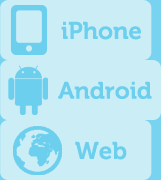
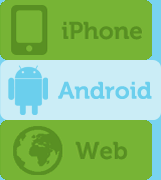
update

diff --git a/public/stylesheets/screen.css b/public/stylesheets/screen.css
@@ -256,38 +256,57 @@ section#app-intro .content ul.icons li {
   background: url(../images/icons.png) 0 0 no-repeat;
 }
 /* line 152, ../../scss/screen.scss */
+section#app-intro .content ul.icons li a, section#app-intro .content ul.icons li p {
+  display: block;
+  width: 152px;
+  height: 60px;
+  padding: 45px 0 5px 75px;
+  font-size: 12px;
+  color: white;
+  text-decoration: none;
+}
+/* line 161, ../../scss/screen.scss */
 section#app-intro .content ul.icons li.android {
   background-position: 0 -60px;
   width: 160px;
 }
-/* line 153, ../../scss/screen.scss */
+/* line 163, ../../scss/screen.scss */
+section#app-intro .content ul.icons li.android p {
+  padding: 37px 0 5px 75px;
+  color: green;
+}
+/* line 168, ../../scss/screen.scss */
 section#app-intro .content ul.icons li.browser {
   background-position: 0 -120px;
 }
-/* line 156, ../../scss/screen.scss */
+/* line 170, ../../scss/screen.scss */
+section#app-intro .content ul.icons li.browser a {
+  padding-left: 64px;
+}
+/* line 175, ../../scss/screen.scss */
 section#app-intro .content h2.title {
   color: #068bb7;
   font-size: 2em;
   margin: 0.6em 0;
 }
-/* line 161, ../../scss/screen.scss */
+/* line 180, ../../scss/screen.scss */
 section#app-intro .content p {
   color: white;
   margin-bottom: 0.6em;
   line-height: 30px;
 }
 
-/* line 169, ../../scss/screen.scss */
+/* line 188, ../../scss/screen.scss */
 #slides {
   text-align: center;
 }
 
-/* line 170, ../../scss/screen.scss */
+/* line 189, ../../scss/screen.scss */
 .slidesContainer {
   margin: 0 110px 40px 110px;
 }
 
-/* line 172, ../../scss/screen.scss */
+/* line 191, ../../scss/screen.scss */
 a.slidesPrevious, a.slidesNext {
   width: 38px;
   height: 38px;
@@ -296,17 +315,17 @@ a.slidesPrevious, a.slidesNext {
   background: url(../images/arrows.png) 0 0 no-repeat;
   text-indent: -5000px;
 }
-/* line 178, ../../scss/screen.scss */
+/* line 197, ../../scss/screen.scss */
 a.slidesPrevious.slidesPrevious, a.slidesNext.slidesPrevious {
   left: 0;
 }
-/* line 181, ../../scss/screen.scss */
+/* line 200, ../../scss/screen.scss */
 a.slidesPrevious.slidesNext, a.slidesNext.slidesNext {
   right: 0;
   background-position: 0 -38px;
 }
 
-/* line 187, ../../scss/screen.scss */
+/* line 206, ../../scss/screen.scss */
 ul.slidesPagination {
   text-align: center;
   overflow: hidden;
@@ -321,16 +340,16 @@ ul.slidesPagination {
 ul.slidesPagination {
   *display: inline;
 }
-/* line 191, ../../scss/screen.scss */
+/* line 210, ../../scss/screen.scss */
 ul.slidesPagination li {
   float: left;
   margin: 0 5px;
 }
-/* line 194, ../../scss/screen.scss */
+/* line 213, ../../scss/screen.scss */
 ul.slidesPagination li.slidesCurrent a {
   background-position: 0 0;
 }
-/* line 195, ../../scss/screen.scss */
+/* line 214, ../../scss/screen.scss */
 ul.slidesPagination li a {
   display: -moz-inline-box;
   -moz-box-orient: vertical;

diff --git a/scss/screen.scss b/scss/screen.scss
@@ -149,8 +149,27 @@ section#app-intro {
         width: 152px;
         margin-right: 20px;
         background: url(../images/icons.png) 0 0 no-repeat;
-        &.android { background-position: 0 -60px; width: 160px; }
-        &.browser { background-position: 0 -120px; }
+        a, p {
+          display: block;
+          width: 152px;
+          height: 60px;
+          padding: 45px 0 5px 75px;
+          font-size: 12px;
+          color: white;
+          text-decoration: none;
+        }
+        &.android { 
+          background-position: 0 -60px; width: 160px; 
+          p {
+            padding: 37px 0 5px 75px;
+            color: green;
+          }
+        }
+        &.browser { 
+          background-position: 0 -120px; 
+          a{ padding-left: 64px; }
+        }
+        
       }
     }
     h2.title {

diff --git a/public/index.html b/public/index.html
@@ -39,9 +39,9 @@
       <h2 class="title">{{title}}</h2>
       <p>{{summary}}</p>
       <ul class="icons">
-        <li class="apple"></li>
-        <li class="android"></li>
-        <li class="browser"></li>
+        <li class="apple"><a href="http://www.jieqoo.com/downloads/jieqoo.ipa">alpha v1.03</a></li>
+        <li class="android"><p>开发中</p></li>
+        <li class="browser"><a href="http://vm-192-168-14-188.shengyun.grandcloud.cn/">点击进入内测版</a></li>
       </ul>
     </script>
   </head>
